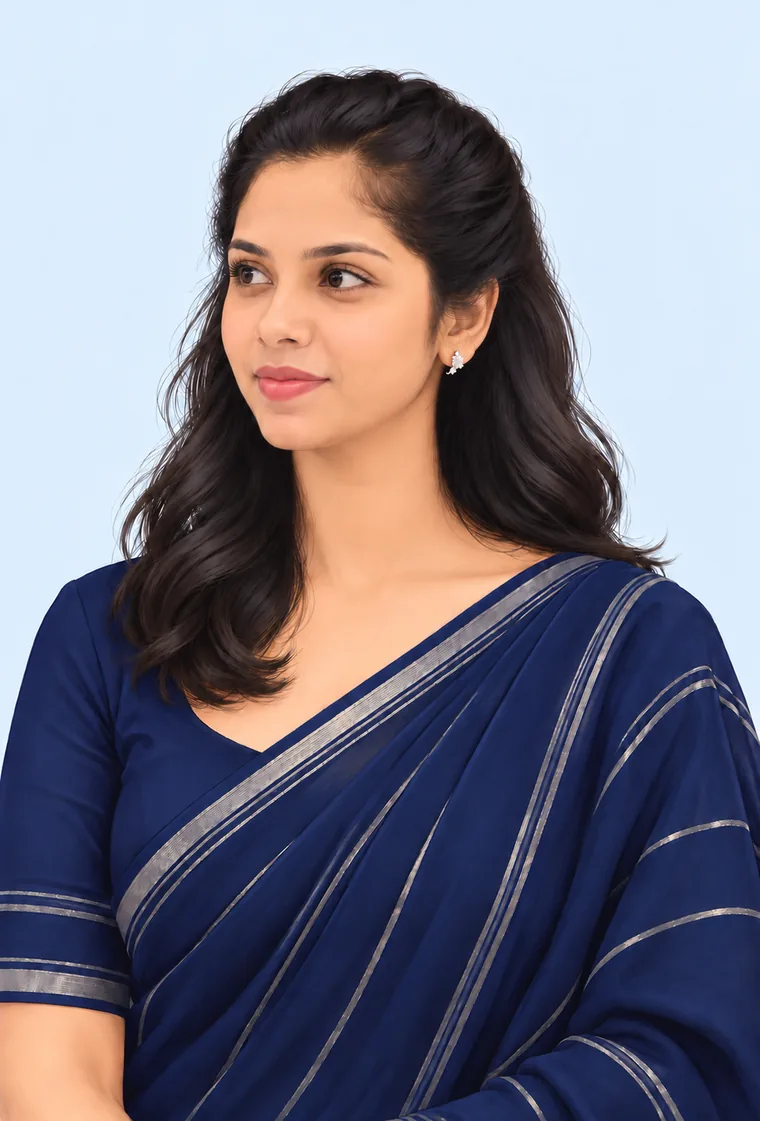
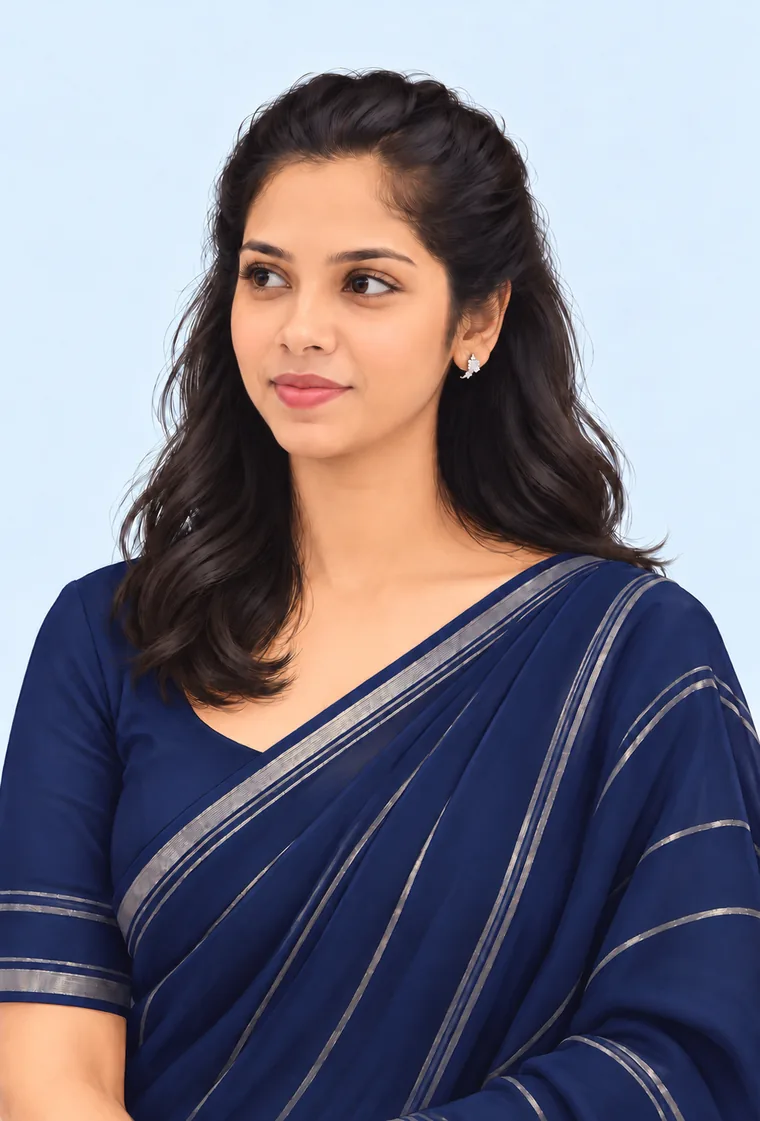
Trim the head turn to 11 consistent frames
The Codex set repeated the same strong left turn across 14 frames with
slightly different faces (rounder face, shifting gaze and hairline), and
had several near-identical front views, so moving the cursor made her
flicker instead of turning. Keep one clean frame per angle (source frames
0, 7, 13, 17, 19, 20, 24, 26, 28, 31, 32) and respace the positions.

diff --git a/README.md b/README.md
@@ -30,9 +30,9 @@ Crop boxes are at the top of the script if a new photo needs reframing.
 
 ## Head turn
 
-The hero scrubs through 33 illustrated frames in `assets/turn/` (`000.webp … 032.webp`) as the cursor moves, or as you swipe on a phone. `frames.json` holds the count, the straight-on frame (`front`: 20) and each frame's head angle (`positions`, -1 left … +1 right). `front.webp` is shown before the script loads.
+The hero scrubs through 11 illustrated frames in `assets/turn/` (`000.webp … 010.webp`) as the cursor moves, or as you swipe on a phone. `frames.json` holds the count, the straight-on frame (`front`: 5) and each frame's head angle (`positions`, -1 left … +1 right). `front.webp` is shown before the script loads.
 
-The frames were generated in Codex (2026-10-09, navy saree set) as 1033×1523 PNGs and converted to 760 px WebP at quality 82, 2.1 MB for all 33. To swap in a new set:
+The frames come from a 33-frame Codex set (2026-10-09, navy saree), converted from 1033×1523 PNG to 760 px WebP. Only 11 were kept (`source_frames` in `frames.json` lists the original numbers). The rest were dropped because 14 of them repeated the same strong left turn with slightly different faces, and a few front views were near-duplicates, which made her flicker instead of turning. To swap in a new set:
 
 ```bash
 pip install "rembg[cpu]" pillow
